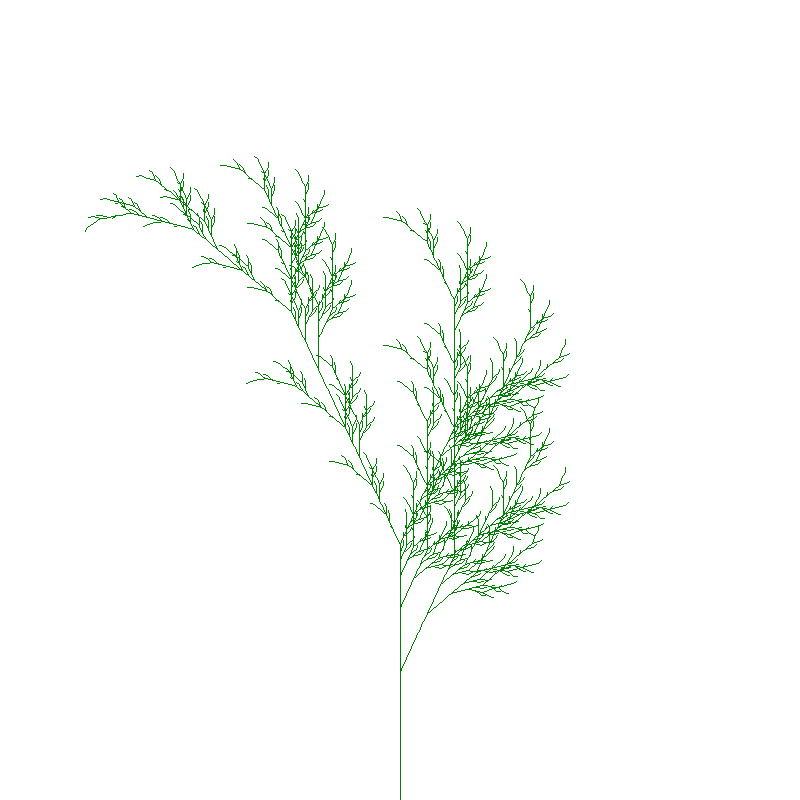
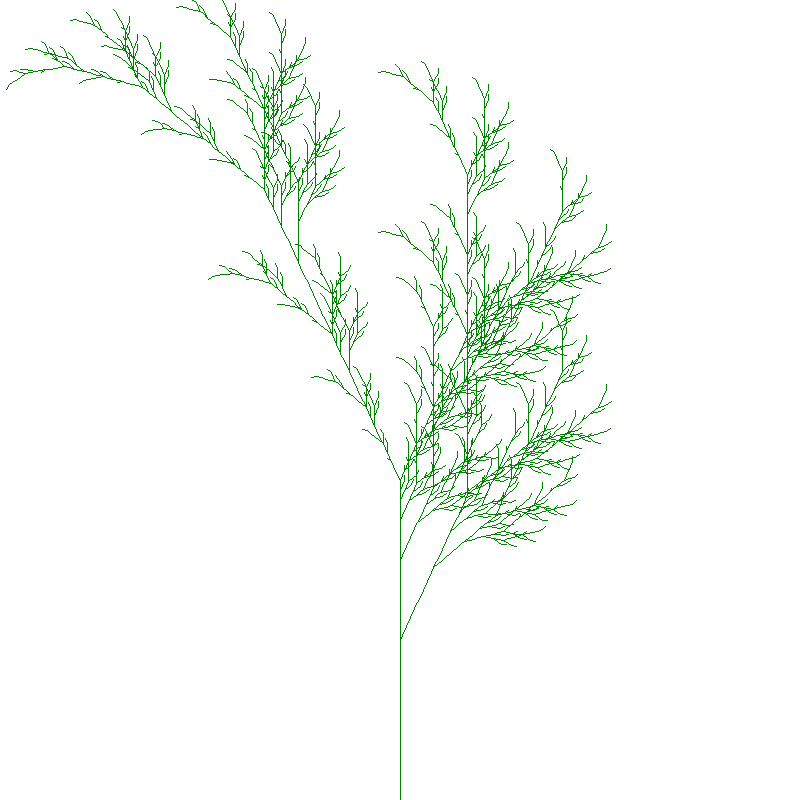
aa

diff --git a/src/test/java/test/puzzle/fractal/TestLSystem.java b/src/test/java/test/puzzle/fractal/TestLSystem.java
@@ -6,15 +6,14 @@ import static org.junit.jupiter.api.Assertions.assertEquals;
 import java.awt.Color;
 import java.io.File;
 import java.io.IOException;
-import java.util.Deque;
 import java.util.Iterator;
-import java.util.LinkedList;
 import java.util.Map;
 
 import org.junit.jupiter.api.Test;
 
 import puzzle.fractal.ImageWriter;
 import puzzle.fractal.LSystem;
+import puzzle.fractal.Point;
 
 class TestLSystem {
 
@@ -72,15 +71,18 @@ class TestLSystem {
         Color[] colors = {Color.RED, Color.GREEN, Color.BLUE, Color.YELLOW};
         try (ImageWriter iw = new ImageWriter((int) size.x, (int) size.y)) {
             TurtleGraphics turtle = new TurtleGraphics(iw.graphics);
-            Map<String, Runnable> actions = Map.of("F", () -> turtle.forward(), "G", () -> turtle.forward(), "+",
-                () -> turtle.rotate(90), "-", () -> turtle.rotate(-90));
-            Point unit = Point.of(0, 4);
+            Map<String, Runnable> actions = Map.of(
+                "F", () -> turtle.forward(),
+                "G", () -> turtle.forward(),
+                "+", () -> turtle.rotate(90),
+                "-", () -> turtle.rotate(-90));
+            int direction = 0;
+            int step = 4;
             for (Color color : colors) {
-                turtle.go(start);
-                turtle.unit(unit);
-                turtle.color(color);
+                turtle.reset(start, direction, step);
+                turtle.color = color;
                 turtle.run(gen, actions);
-                unit = unit.rotate(90);
+                direction += 90;
             }
             iw.writeTo(new File("data/dragon.png"));
         }
@@ -88,7 +90,7 @@ class TestLSystem {
 
     /**
      * Example 7: Fractal plant
-     * 
+     *
      * <pre>
      * See also: Barnsley fern
      * variables : X F
@@ -97,39 +99,55 @@ class TestLSystem {
      * rules  : (X → F+[[X]-X]-F[-FX]+X), (F → FF)
      * angle  : 25°
      * </pre>
-     * 
+     *
      * Here, F means "draw forward", − means "turn right 25°", and + means "turn
      * left 25°". X does not correspond to any drawing action and is used to control
      * the evolution of the curve. The square bracket "[" corresponds to saving the
      * current values for position and angle, which are restored when the
      * corresponding "]" is executed.
-     * 
+     *
      * @throws IOException
      */
     @Test
-    void testFractalPlant() throws IOException {
+    void testFractalPlantImage() throws IOException {
         LSystem plant = LSystem.of("X", "X", "F+[[X]-X]-F[-FX]+X", "F", "FF");
-        int size = 800;
-        Point area = Point.of(size, size);
+        Point size = Point.of(800, 800);
         String gen = plant.generation(6);
-        System.out.println(gen);
-        try (ImageWriter iw = new ImageWriter((int) area.x, (int) area.y)) {
+        try (ImageWriter iw = new ImageWriter((int) size.x, (int) size.y)) {
             TurtleGraphics turtle = new TurtleGraphics(iw.graphics);
-            Deque<Point> sc = new LinkedList<>();
-            Deque<Point> su = new LinkedList<>();
             Map<String, Runnable> actions = Map.of(
                 "F", () -> turtle.forward(),
                 "X", () -> {},
                 "+", () -> turtle.rotate(25),
                 "-", () -> turtle.rotate(-25),
-                "[", () -> { sc.push(turtle.current); su.push(turtle.unit); },
-                "]", () -> { turtle.go(sc.pop()); turtle.unit(su.pop()); });
-            turtle.color(new Color(0x008000));
-            turtle.go(Point.of(size / 2, size));
-            turtle.unit(Point.of(0, -4));
+                "[", () -> turtle.push(),
+                "]", () -> turtle.pop());
+            turtle.color = new Color(0x008000);
+            turtle.position = Point.of(size.x / 2, size.y);
+            turtle.direction = -90;
             turtle.run(gen, actions);
             iw.writeTo(new File("data/plant.png"));
         }
+    }
 
+    static void dragon(TurtleGraphics t, int level, int rotate) {
+        if (level <= 0)
+            t.forward();
+        else {
+            dragon(t, level - 1, 90);
+            t.rotate(rotate);
+            dragon(t, level - 1, -90);
+        }
+    }
+
+    @Test
+    void testDragonCurveRecursive() throws IOException {
+        Point size = Point.of(3200, 3200);
+        try (ImageWriter iw = new ImageWriter((int)size.x, (int)size.y)) {
+            TurtleGraphics t = new TurtleGraphics(iw.graphics);
+            t.reset(size.divide(2), 0, 5);
+            dragon(t, 16, 90);
+            iw.writeTo(new File("data/dragon-recursive.png"));
+        }
     }
 }

diff --git a/src/test/java/test/puzzle/fractal/TurtleGraphics.java b/src/test/java/test/puzzle/fractal/TurtleGraphics.java
@@ -2,40 +2,62 @@ package test.puzzle.fractal;
 
 import java.awt.Color;
 import java.awt.Graphics2D;
+import java.util.Deque;
+import java.util.LinkedList;
 import java.util.Map;
 
+import puzzle.fractal.Point;
+
 public class TurtleGraphics {
-    
+
     public final Graphics2D g;
-    public Point current = Point.of(0, 0), unit = Point.of(0, 5);
+    public Point position = Point.of(0, 0);
+    public int direction = 0;
+    public int step = 5;
     public boolean penDown = true;
-    
+    public Color color = Color.BLACK;
+    public Deque<Point> positionStack = new LinkedList<>();
+    public Deque<Integer> directionStack = new LinkedList<>();
+
     public TurtleGraphics(Graphics2D g) {
         this.g = g;
     }
-    
-    public void penDown() { penDown = true; }
-    public void penUp() { penDown = false; }
-    public void color(Color c) { g.setColor(c); }
-    public Color color() { return g.getColor(); }
-    
-    public void go(Point x) { current = x; }
-    public void unit(Point x) { unit = x; }
+
+    public void reset(Point position, int direction, int step) {
+        this.position = position;
+        this.direction = direction;
+        positionStack.clear();
+        directionStack.clear();
+        penDown = true;
+    }
 
     public void forward() {
-        Point next = current.add(unit);
-        if (penDown)
-            g.drawLine((int)current.x, (int)current.y, (int)next.x, (int)next.y);
-        current = next;
+        Point next = position.add(
+            Point.of(step * Math.cos(Math.toRadians(direction)),
+                step * Math.sin(Math.toRadians(direction))));
+        if (penDown) {
+            g.setColor(color);
+            g.drawLine((int)position.x, (int)position.y, (int)next.x, (int)next.y);
+        }
+        position = next;
     }
-    
+
     public void rotate(int degree) {
-        unit = unit.rotate(degree);
+        direction = (direction + degree) % 360;
     }
-    
+
+    public void push() {
+        positionStack.push(position);
+        directionStack.push(direction);
+    }
+
+    public void pop() {
+        position = positionStack.pop();
+        direction = directionStack.pop();
+    }
+
     public void run(String input, Map<String, Runnable> actions) {
         for (char c : input.toCharArray())
             actions.get(Character.toString(c)).run();
     }
-
 }

diff --git a/src/main/java/puzzle/Primes.java b/src/main/java/puzzle/Primes.java
@@ -87,6 +87,13 @@ public class Primes {
             .toArray();
     }
 
+    public static IntStream primes3(int max) {
+        return IntStream.range(2, max)
+            .filter(IntStream.rangeClosed(2, (int)Math.sqrt(max)).boxed()
+                .reduce(n -> true,
+                    (p, n) -> p.and(i -> i == n || i % n != 0), (p, q) -> p));
+    }
+
     public static Set<Integer> factors(int n) {
         return (Set<Integer>) IntStream.rangeClosed(1, (int) Math.sqrt(n))
             .filter(i -> n % i == 0)

diff --git a/src/main/java/puzzle/fractal/Point.java b/src/main/java/puzzle/fractal/Point.java
@@ -1,4 +1,4 @@
-package test.puzzle.fractal;
+package puzzle.fractal;
 
 public class Point {
     
